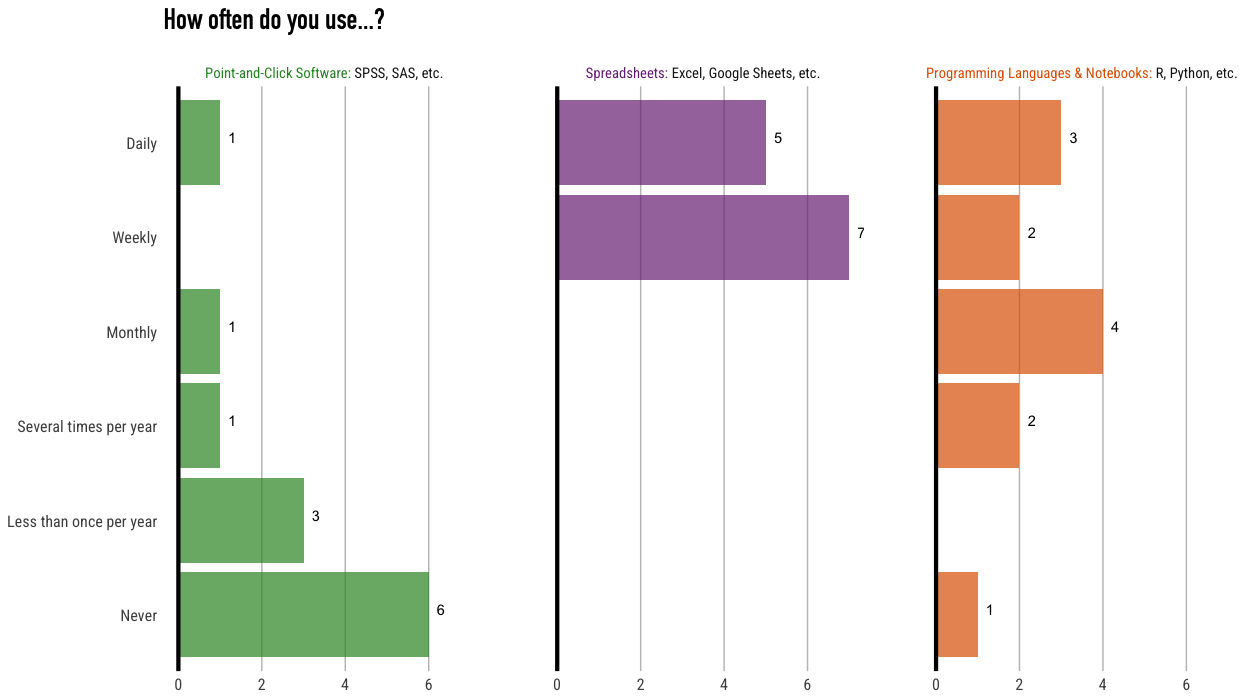
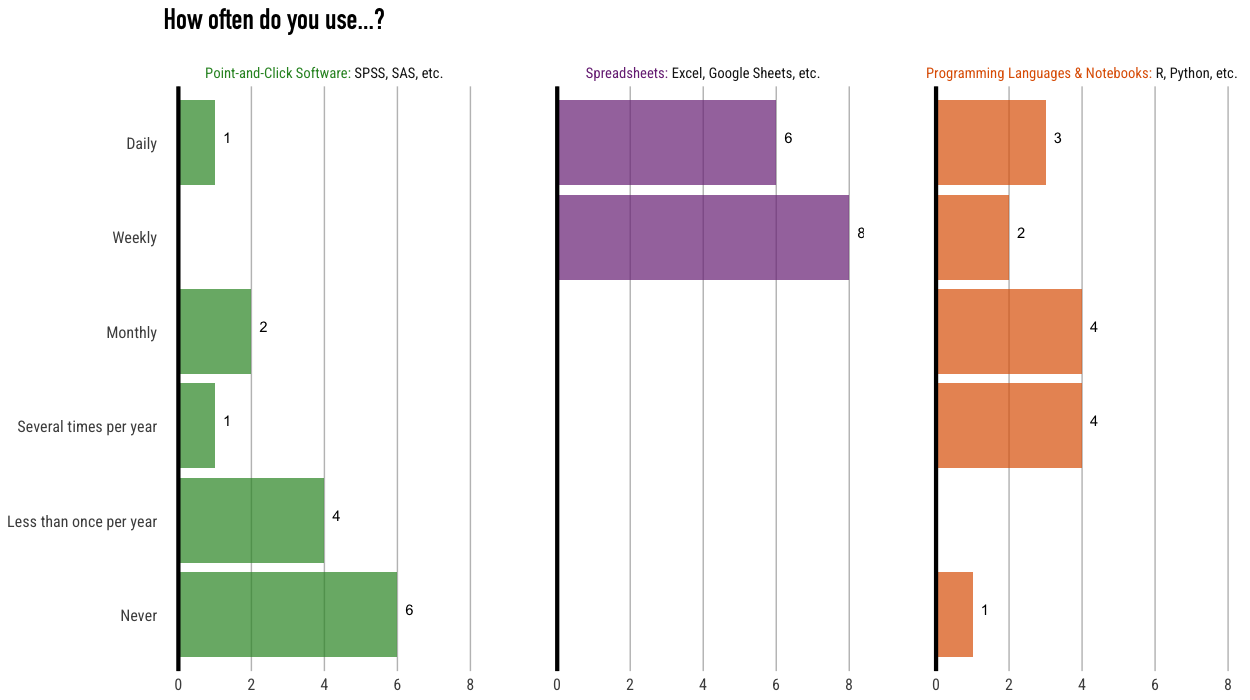
integrated gsheet survey viz into qmd

diff --git a/week-1/slides.html b/week-1/slides.html
@@ -495,14 +495,20 @@ Dr.&nbsp;Kelly Boles
 <h2>Pre-Course Surveys—Recap</h2>
 <hr>
 
-<img data-src="how_often_graphs.png" class="r-stretch"></section>
+<img data-src="slides_files/figure-revealjs/unnamed-chunk-2-1.png" width="960" class="r-stretch quarto-figure-center"></section>
 <section id="pre-course-surveysrecap-1" class="slide level2">
 <h2>Pre-Course Surveys—Recap</h2>
 <hr>
 
-<img data-src="level_of_confidence_graphs.png" class="r-stretch"></section>
-<section id="fund-things-from-discussion" class="slide level2">
-<h2>Fund Things From Discussion</h2>
+<!-- ## Pre-Course Surveys—Recap -->
+<!-- <hr> -->
+<!-- ![](how_often_graphs.png) -->
+<!-- ## Pre-Course Surveys—Recap -->
+<!-- <hr> -->
+<!-- ![](level_of_confidence_graphs.png) -->
+<img data-src="slides_files/figure-revealjs/unnamed-chunk-3-1.png" width="960" class="r-stretch quarto-figure-center"></section>
+<section id="fun-things-from-discussion" class="slide level2">
+<h2>Fun Things From Discussion</h2>
 <hr>
 <div class="quarto-layout-panel">
 <div class="quarto-layout-row quarto-layout-valign-top">
